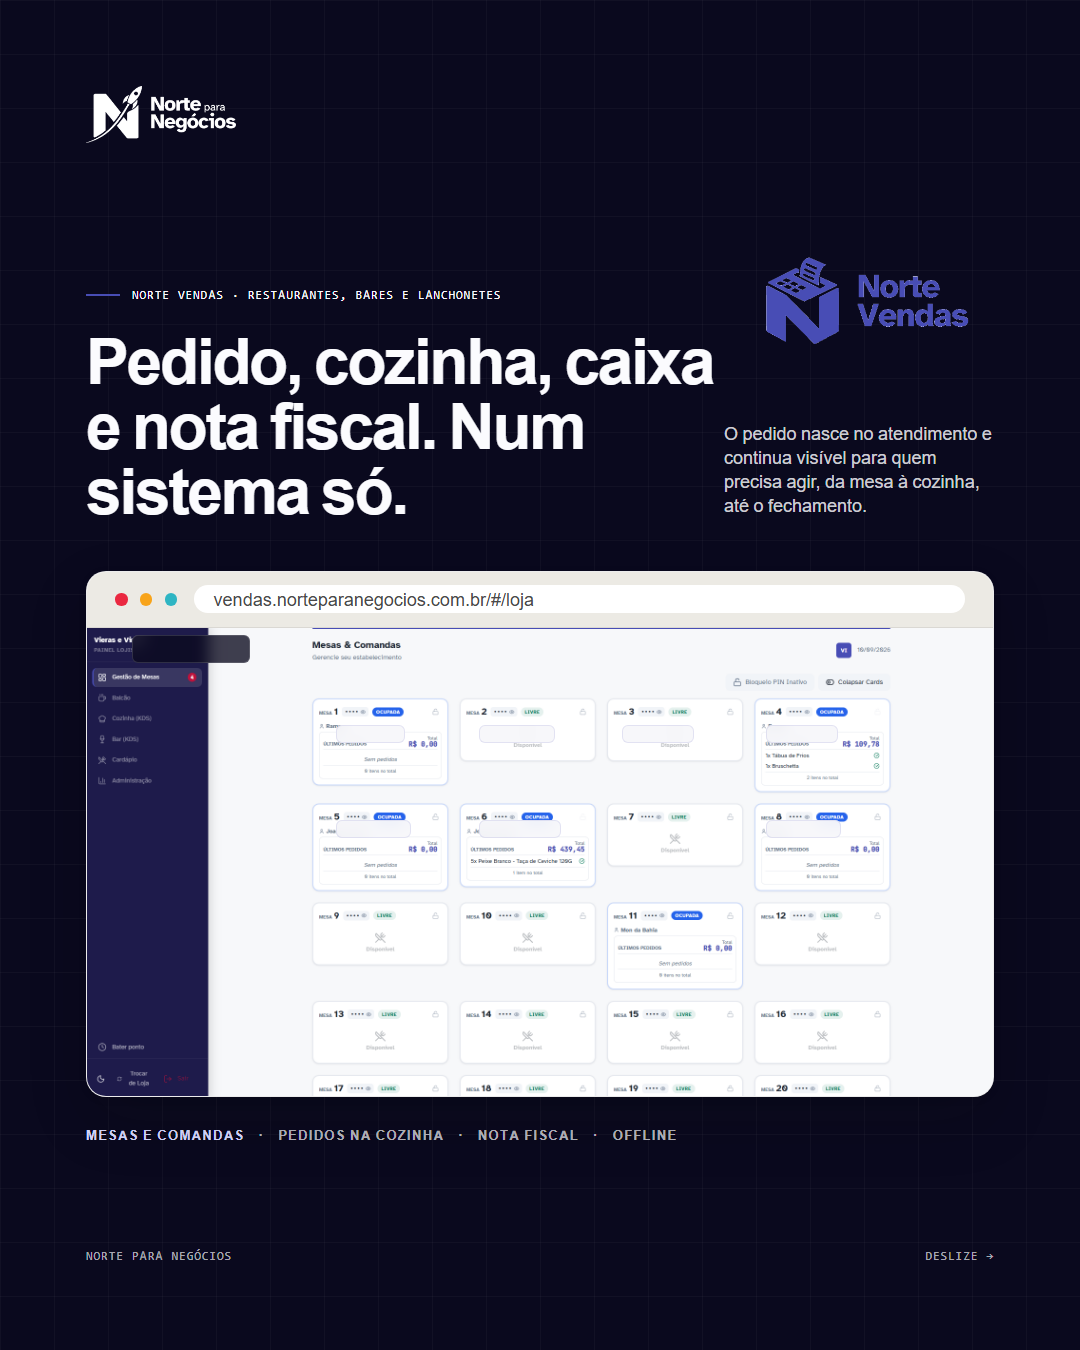
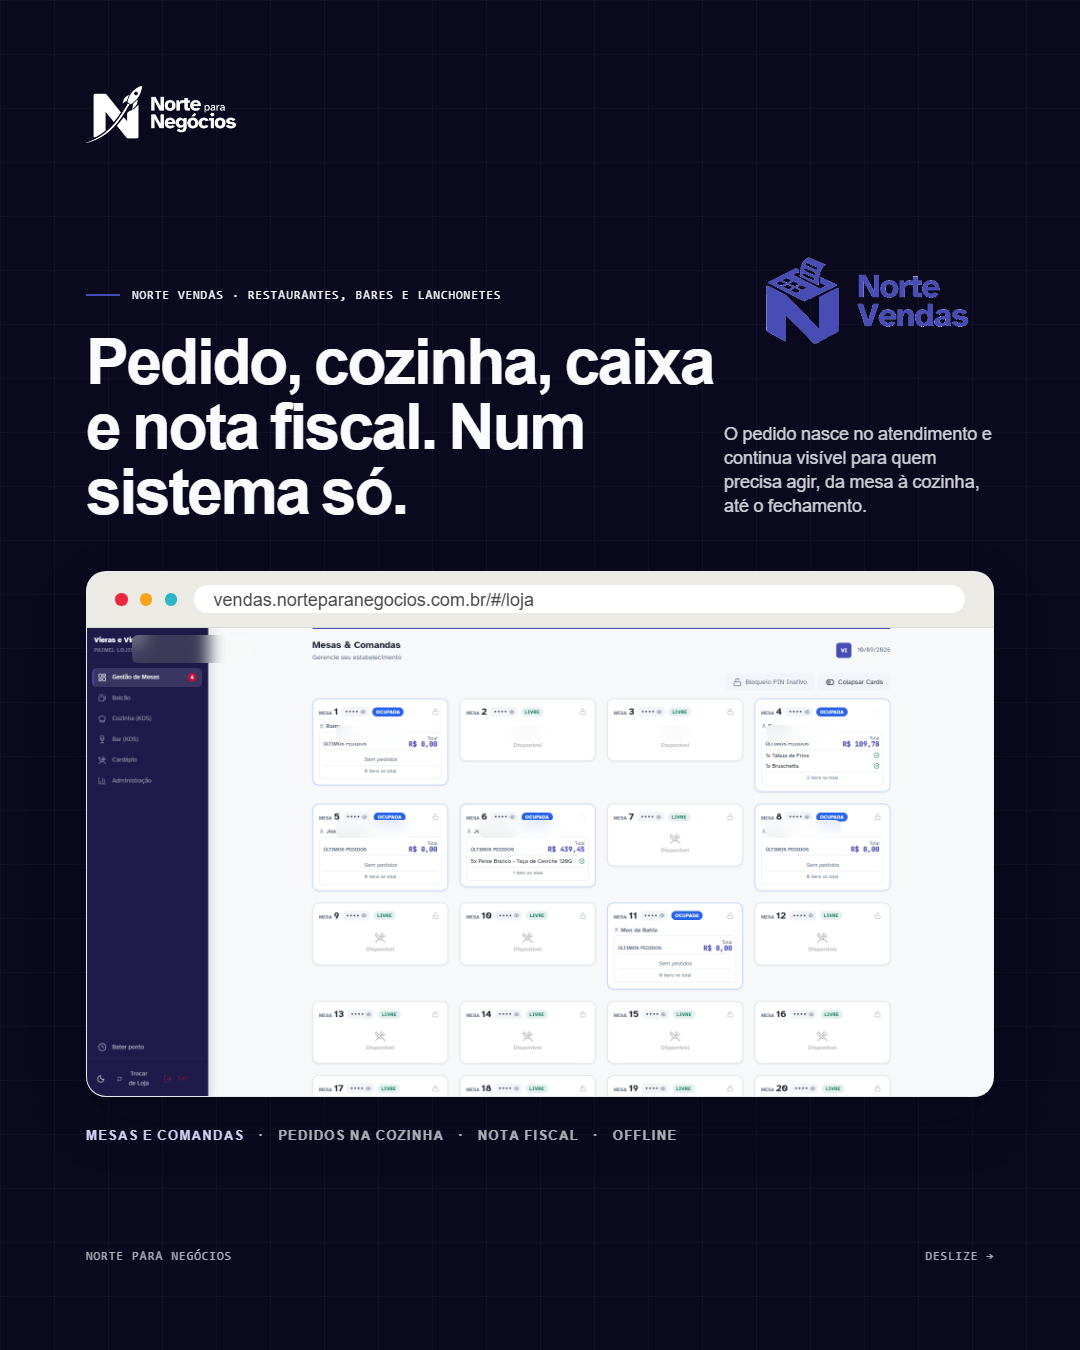
Aproxima mascaras dos sistemas ao site

diff --git a/src/templates/NorteNtbApresentacao.tsx b/src/templates/NorteNtbApresentacao.tsx
@@ -55,9 +55,9 @@ const DataMask: React.FC<{left: number; top: number; width: number; height: numb
       width,
       height,
       borderRadius: 6,
-      background: dark ? 'rgba(10, 9, 30, 0.78)' : 'rgba(245, 245, 249, 0.82)',
-      border: dark ? '1px solid rgba(255,255,255,0.14)' : '1px solid rgba(72,77,181,0.12)',
-      backdropFilter: 'blur(7px)',
+      background: dark ? 'rgba(255, 255, 255, 0.13)' : 'rgba(255, 255, 255, 0.30)',
+      border: 'none',
+      backdropFilter: 'blur(8px) saturate(0.72)',
     }}
   />
 );

diff --git a/conteudo ntb/00-planejamento/04-familia-norte-identidade.md b/conteudo ntb/00-planejamento/04-familia-norte-identidade.md
@@ -82,6 +82,8 @@ O PDF oficial registra **Atkinson Hyperlegible** como tipografia da família. O 
 - Priorizar hierarquia editorial, bastante respiro e frases que expressem a visão da marca.
 - Usar o N como assinatura ou textura discreta, nunca como elemento decorativo sem função.
 - Mostrar os sistemas quando a mensagem for sobre produto, usando capturas reais e dados mascarados.
+- Nas capturas, seguir o padrão do site: desfocar apenas nomes, identificadores, valores e outros dados sensíveis, preservando a leitura da interface.
+- A máscara deve ser translúcida e integrada à tela, sem retângulos pretos, faixas sólidas ou blocos com borda aparente.
 - Não usar o foguete isolado como mascote, ilustração principal ou atalho visual da marca.
 - Não misturar o azul do Norte Vendas com o verde-azulado do Norte Estoque no mesmo produto.
 - Evitar travessões artificiais nas copies e evitar promessas não confirmadas.
